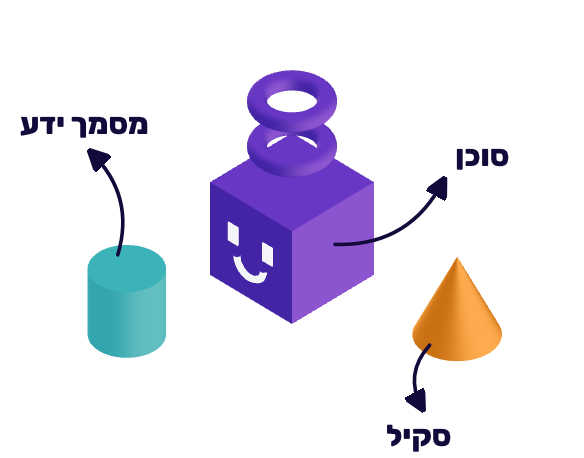
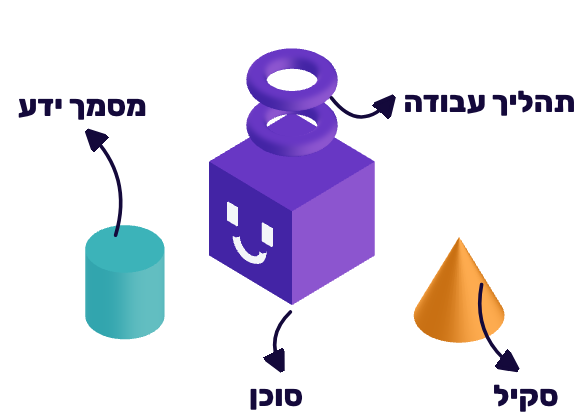
דף המפתח, סבב 7: שלב 2 - רווחים, הדגשה, ותהליכי עבודה
נבנה ב-Storyteling (b79400338), זהה בייט-לבייט.

diff --git a/index.html b/index.html
@@ -1923,10 +1923,12 @@ html.k3-on .k3-static{display:none}
 .k3-chain__art{width:118px}
 .k3-chain__art canvas,.k3-chain__art .k3-static{width:118px;height:176px}
 .road-step__head .road-step__num{vertical-align:middle}
-.k3-art__lead{margin:6px 0 0;background:#F3F0FC;border-radius:12px;padding:11px 14px;line-height:1.6;color:var(--navy)}
+/* סבב 7 (הערה 61): "הרווחים בין הטקסטים ובין השורות, אחיד" - אותו גופן ומרווח שורה כמו הפסקאות, ו-12px בין כל שני חלקים */
+.road-step__body > p.k3-art__lead{margin:0 0 12px;background:#F3F0FC;border-radius:12px;padding:11px 14px;font-size:clamp(15px,3.7vw,16.5px);line-height:1.65;color:var(--navy)}
 .k3-art__lead b{font-weight:800}
-.k3-art{position:relative;width:100%;max-width:340px;margin:4px auto 14px;color:var(--navy)}
-.k3-art canvas{display:block;width:100%;height:auto;aspect-ratio:320/250}
+.k3-art{position:relative;width:100%;max-width:340px;margin:0 auto 12px;color:var(--navy)}
+.road-step__body .k3-art + .road-ex{margin-top:0}
+.k3-art canvas{display:block;width:100%;height:auto;aspect-ratio:320/228}
 .k3-art__arrows{position:absolute;inset:0;width:100%;height:100%;overflow:visible;fill:none;stroke:currentColor;stroke-width:1.8;stroke-linecap:round}
 .k3-art__l{position:absolute;left:0;top:0;transform:translate(-50%,-50%);font-size:15px;font-weight:800;color:var(--navy);white-space:nowrap;opacity:0;transition:opacity .3s}
 .k3-art.is-placed .k3-art__l{opacity:1}
@@ -2185,8 +2187,8 @@ html.k3-on .k3-static{display:none}
         <h3>סוכן מורכב שחושב כמוכם</h3></div>
         <div class="road-step__body"><p>לא בוט שעונה תשובות מוכנות. <br />סוכן עם שם, אופי ומוח. שמכיר את הידע שלכם ופועל לפי הלוגיקה שלכם.</p>
         <p>בקיצור, יודע לעשות דברים שעד היום דרשו את המוח שלכם.</p>
-          <p class="k3-art__lead">ממה בנוי סוכן? מ<b>סקילים</b> - מה שהוא יודע לעשות (החרוט), ומ<b>מסמכי ידע</b> - מה שהוא יודע (הגליל). הקובייה היא <b>הסוכן</b> עצמו, שמחבר ביניהם ופועל.</p>
-          <figure class="k3-art" aria-label="סוכן, סקיל ומסמך ידע"><img class="k3-static" src="assets/k3-static-stage2.png" alt="" width="640" height="500"><canvas class="k3" data-kind="agent-plus" width="320" height="250" aria-hidden="true"></canvas><svg class="k3-art__arrows" aria-hidden="true"><defs><marker id="k3ah" viewBox="0 0 10 10" refX="8" refY="5" markerWidth="6" markerHeight="6" orient="auto-start-reverse"><path d="M0 0L10 5L0 10z" fill="currentColor"/></marker></defs></svg><span class="k3-art__l" data-at="agent">סוכן</span><span class="k3-art__l" data-at="know">מסמך ידע</span><span class="k3-art__l" data-at="skill">סקיל</span></figure>
+          <p class="k3-art__lead">ממה בנוי סוכן? <b>מסקילים</b> - מה שהוא יודע לעשות (החרוט), <b>ממסמכי ידע</b> - מה שהוא יודע (הגליל), <b>ומתהליכי עבודה</b> - סדר הפעולות שהוא מריץ לבד (הטבעות). הקובייה היא <b>הסוכן</b> עצמו, שמחבר ביניהם ופועל.</p>
+          <figure class="k3-art" aria-label="סוכן, סקיל, מסמך ידע ותהליך עבודה"><img class="k3-static" src="assets/k3-static-stage2.png" alt="" width="640" height="456"><canvas class="k3" data-kind="agent-plus" width="320" height="228" aria-hidden="true"></canvas><svg class="k3-art__arrows" aria-hidden="true"><defs><marker id="k3ah" viewBox="0 0 10 10" refX="8" refY="5" markerWidth="6" markerHeight="6" orient="auto-start-reverse"><path d="M0 0L10 5L0 10z" fill="currentColor"/></marker></defs></svg><span class="k3-art__l" data-at="agent">סוכן</span><span class="k3-art__l" data-at="know">מסמך ידע</span><span class="k3-art__l" data-at="skill">סקיל</span><span class="k3-art__l" data-at="flow">תהליך עבודה</span></figure>
           <div class="road-ex">
             <p class="road-ex__label">לדוגמה</p>
             <ul>
@@ -4330,7 +4332,7 @@ document.querySelectorAll('.pc-qm__track').forEach(function (t) {
     }
     // סבב 4 (הערה 45): התוויות והחצים של שלב 2 ממוקמים לפי המקום שבו כל צורה מצוירת, כך שבכל רוחב מסך החץ יוצא מהצורה.
     // לכל תווית: נקודה על הצורה (בעולם התלת-ממדי), וכיוון שבו התווית יושבת ממנה (בפיקסלים).
-    var K3_LABELS = { agent: { p: [.31, .36, .05], d: [78, -46] }, know: { p: [-.3, .44, 1.0], d: [-18, -70] }, skill: { p: [1.0, .1, -.05], d: [-6, 62] } };
+    var K3_LABELS = { agent: { p: [.31, .02, .31], d: [-8, 58] }, flow: { p: [.22, 1.16, 0], d: [84, 2] }, know: { p: [-.3, .44, 1.0], d: [-18, -70] }, skill: { p: [1.14, .34, -.25], d: [24, 62] } };
     function place(cv, cam) {
       var fig = cv.closest('.k3-art'); if (!fig) return;
       var svg = fig.querySelector('.k3-art__arrows'), W = cv.clientWidth, H = cv.clientHeight, NS = 'http://www.w3.org/2000/svg';
@@ -4365,7 +4367,7 @@ document.querySelectorAll('.pc-qm__track').forEach(function (t) {
     [].forEach.call(document.querySelectorAll('canvas.k3'), function (cv) {
       var kind = cv.dataset.kind;
       if (kind === 'ring') make(cv, .36, .2, function (o) { o.rings = rings(o.g, PAL.turq, 1, .2); o.spin = true; });
-      else if (kind === 'agent-plus') make(cv, 1.22, .3, function (o) {
+      else if (kind === 'agent-plus') make(cv, 1.1, .3, function (o) {
         agent(o.g, PAL.purple); o.rings = rings(o.g, PAL.purple, 2, .62 + .24);
         var cone = new T.Mesh(new T.ConeGeometry(.24, .52, 48).translate(0, .26, 0), face(PAL.orange, 3)); cone.position.set(1.0, 0, -.25); o.g.add(cone);
         var cyl = new T.Mesh(new T.CylinderGeometry(.21, .21, .44, 48).translate(0, .22, 0), face(PAL.turq, 3)); cyl.position.set(-.25, 0, 1.0); o.g.add(cyl);
